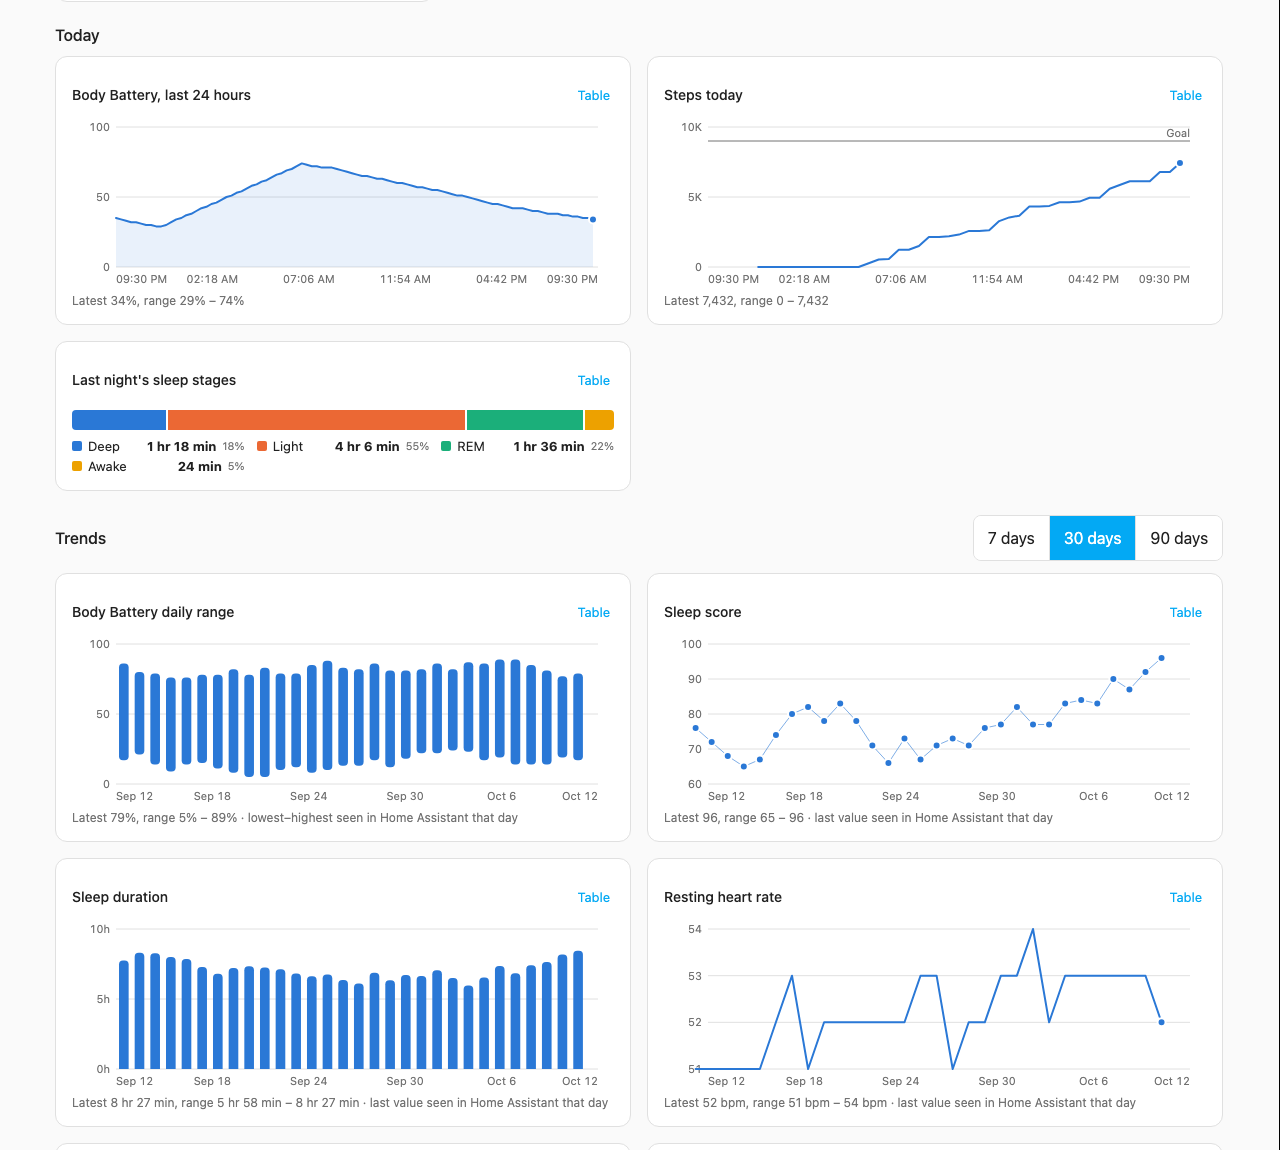
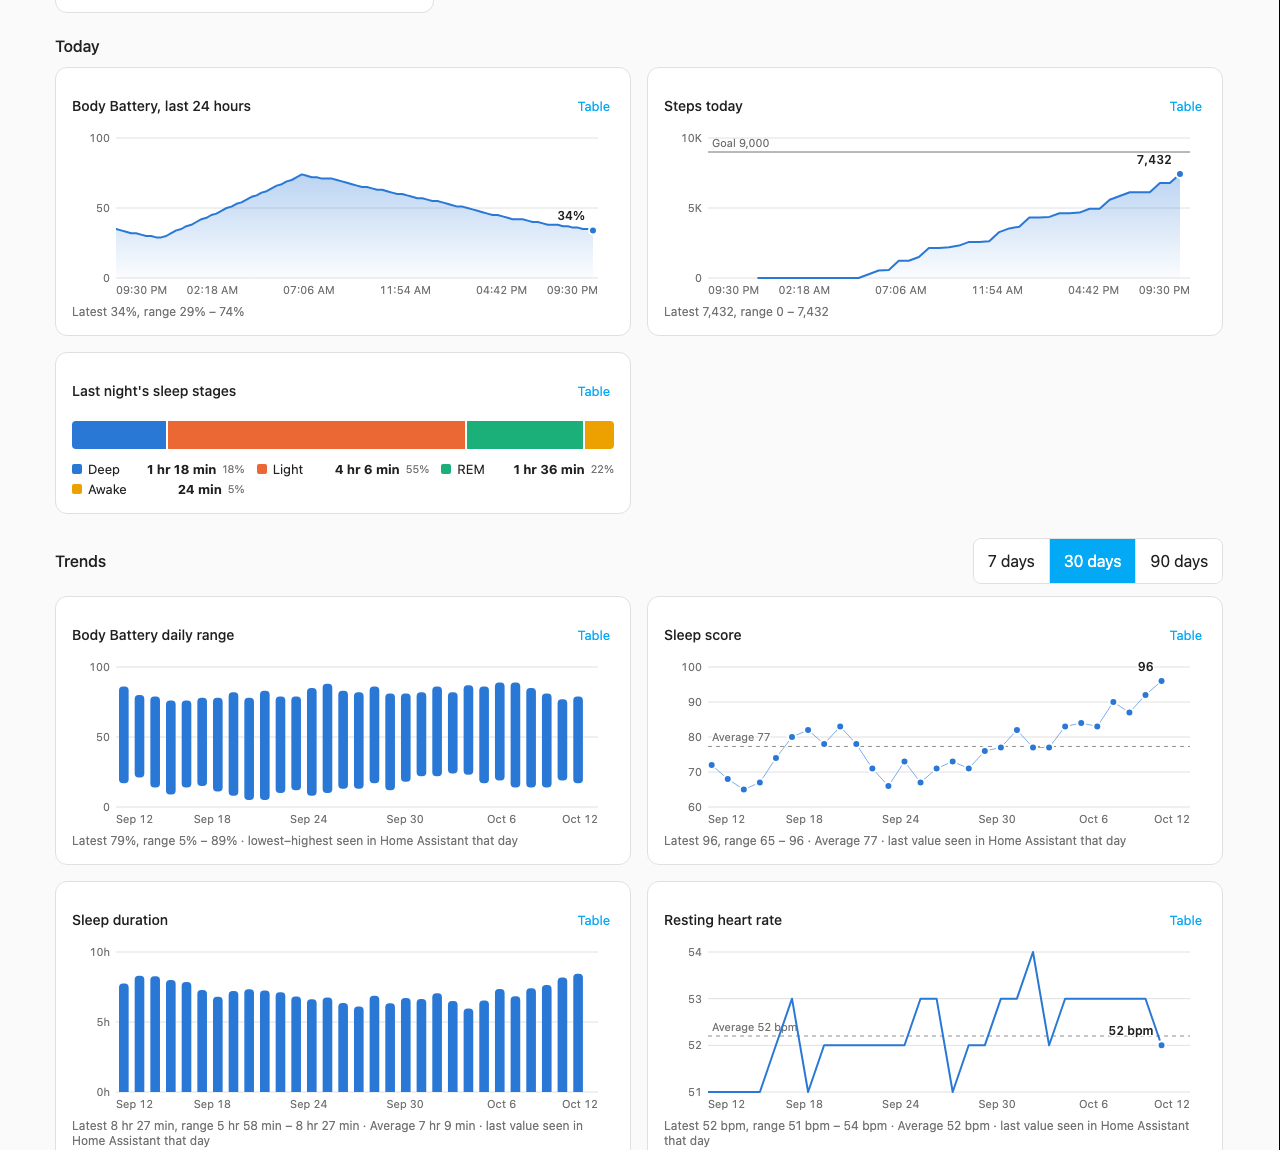
docs: describe the summary strip and sparklines, refresh screenshots

diff --git a/README.md b/README.md
@@ -8,11 +8,12 @@ A ready-made Garmin screen for Home Assistant. If your Garmin data already reach
 
 ## What you get
 
-- **Today at a glance:** steps against your goal, distance, calories, Body Battery with today's charge and drain, sleep against your sleep need, HRV, resting heart rate, SpO2, training readiness and status, VO2 max.
+- **At a glance:** rings for steps against your goal, Body Battery, sleep score and training readiness at the top.
+- **Today in detail:** distance, calories, Body Battery with today's charge and drain, sleep against your sleep need, HRV, resting heart rate, SpO2, training status, VO2 max. Sleep, HRV, resting heart rate and weight carry a 7-day sparkline and the change from the previous day; HRV and training status show Garmin's status with an icon.
 - **For cyclists and runners:** FTP and power-to-weight, lactate threshold heart rate (cycling and running), gear distance, and the battery state of paired sensors such as power meters and heart-rate straps.
 - **Training plan:** today's and the next scheduled workout, and a countdown to your goal race, when you use a Garmin plan or calendar.
 - **Body:** weight, in your Home Assistant unit system.
-- **Charts** from Home Assistant's own history: Body Battery over the last 24 hours, today's steps against your goal, last night's sleep stages, and 7/30/90-day trends for Body Battery, sleep, resting heart rate, HRV (with Garmin's current balanced range), weekly steps, VO2 max, FTP, power-to-weight and weight. Every chart has a table view.
+- **Charts** from Home Assistant's own history: Body Battery over the last 24 hours, today's steps against your goal, last night's sleep stages, and 7/30/90-day trends for Body Battery, sleep, resting heart rate, HRV (with Garmin's current balanced range), weekly steps, VO2 max, FTP, power-to-weight and weight, with the average of the days shown and the latest value marked. Every chart has a table view.
 - **Activities:** the latest activities Garmin Connect provides, with a sport filter, details and time in heart-rate zones.
 - **Route trace** of the last synced activity, drawn locally without a map.
 - **Several Garmin accounts**, each as its own profile.
